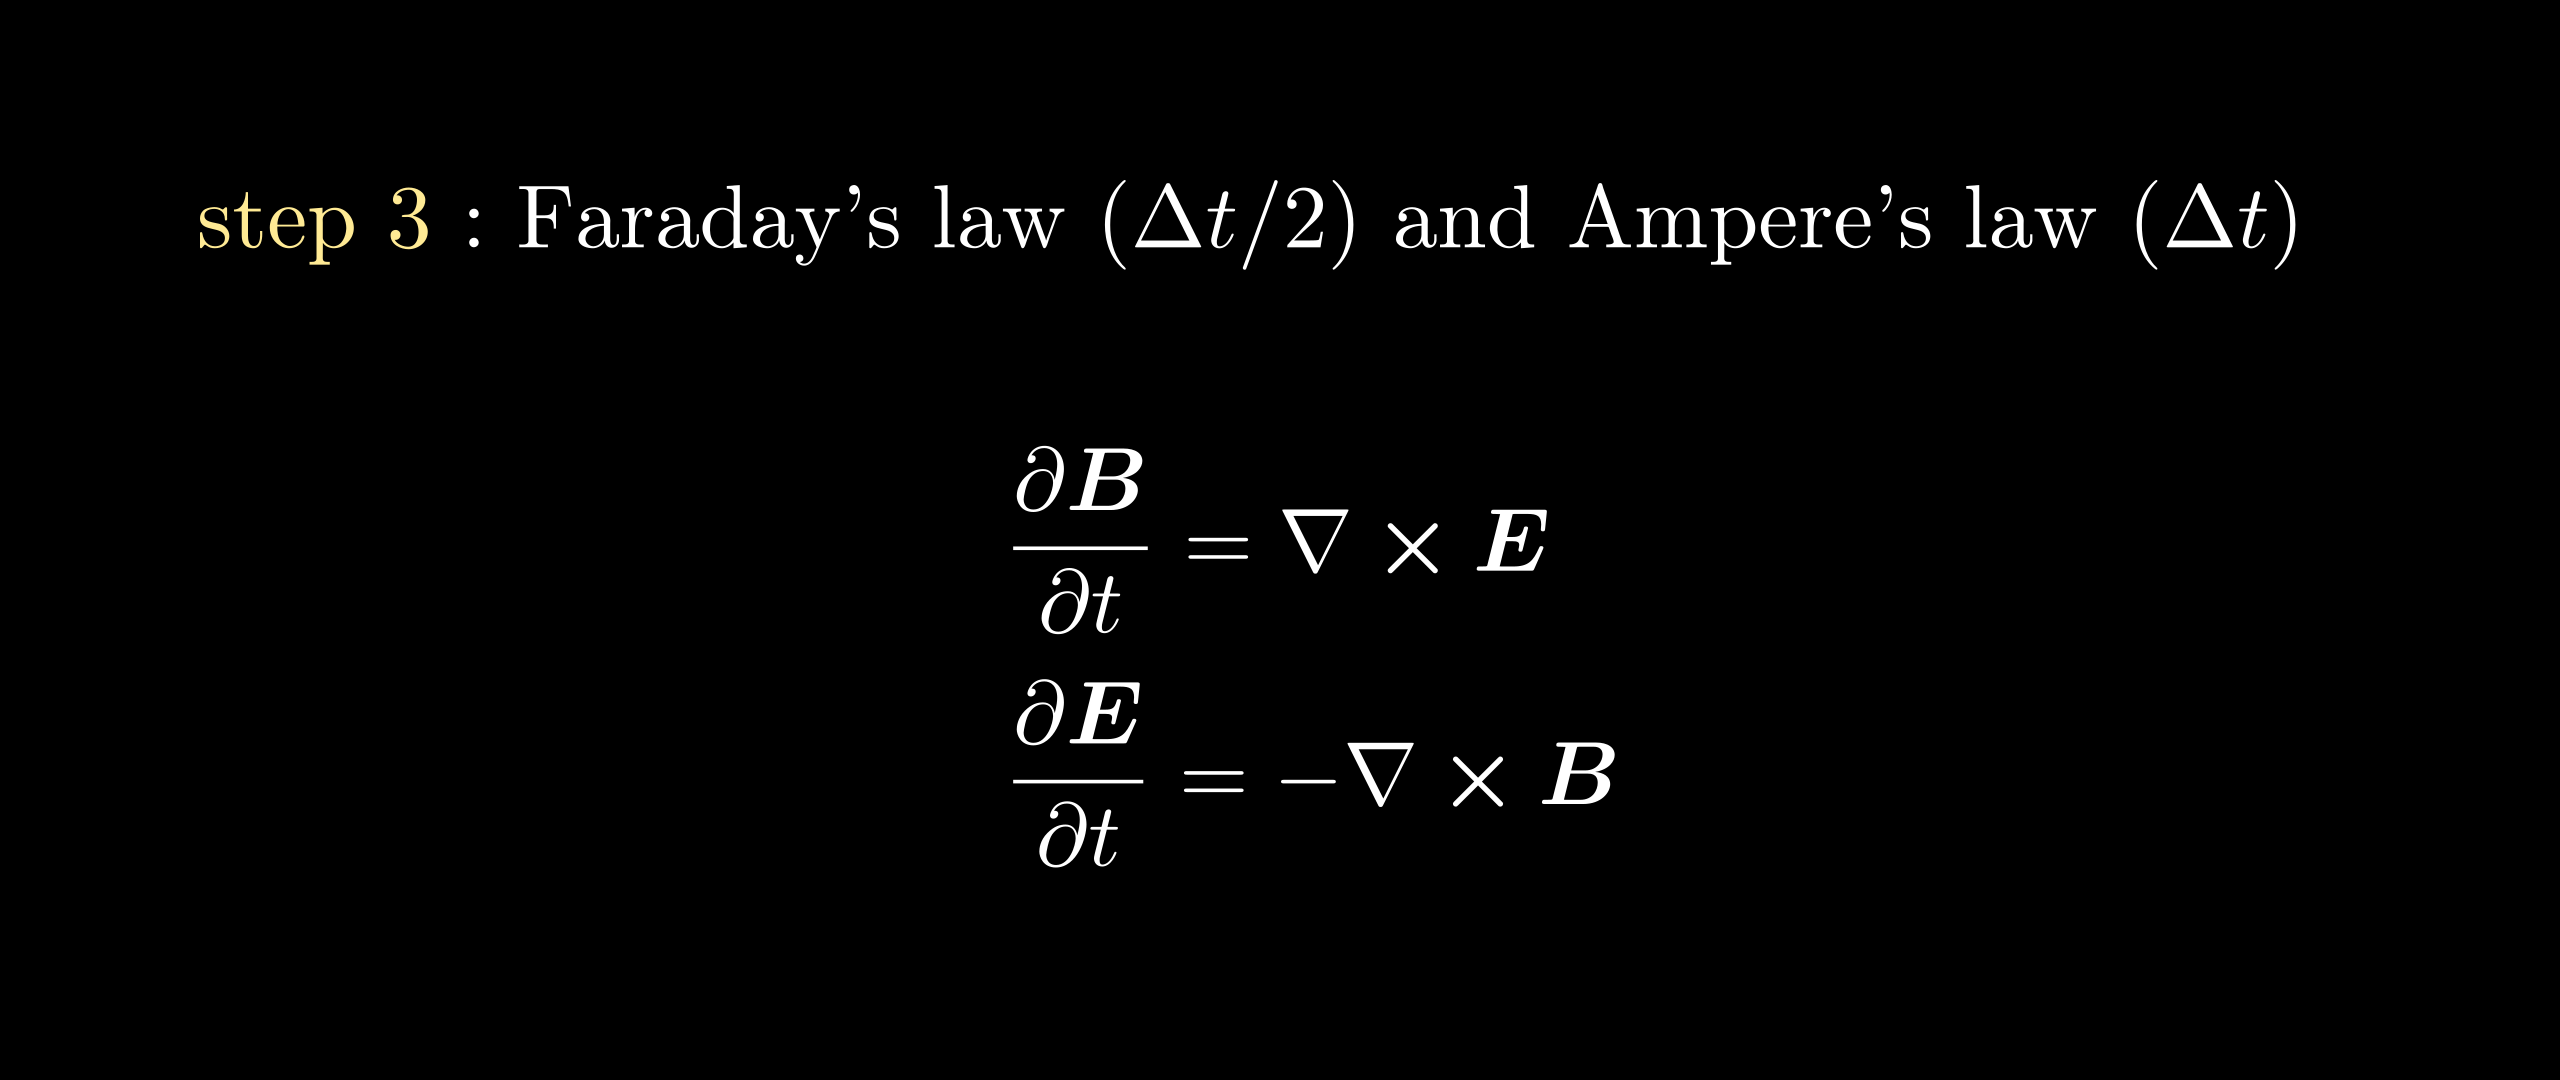
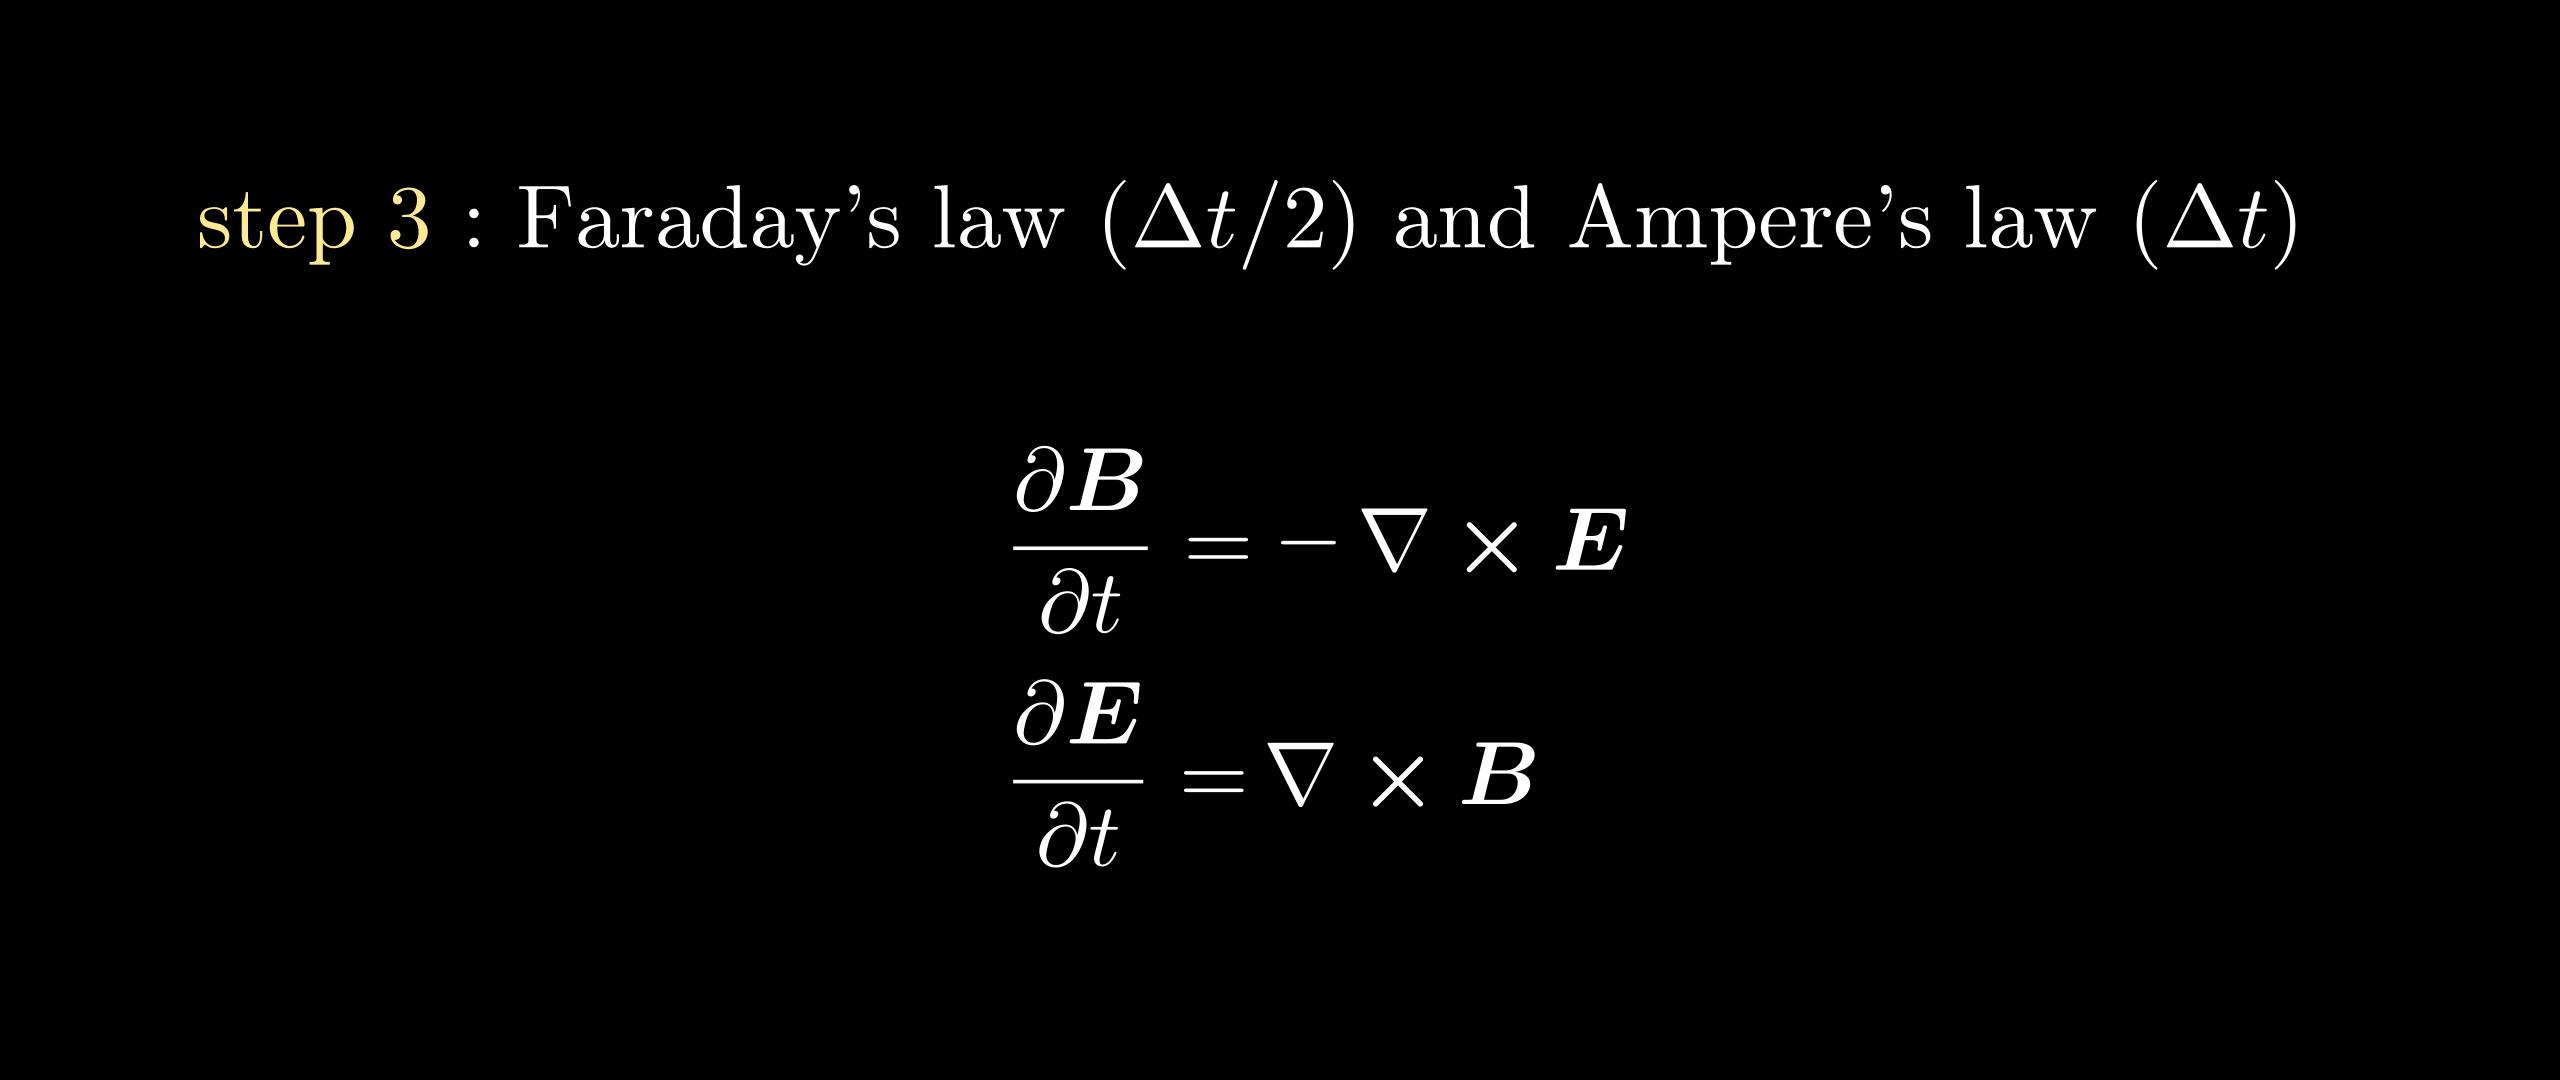
fixed maxwell signs

Changed region(s): [[0.5, 0.6722, 0.6562, 0.7639], [0.5, 0.4583, 0.625, 0.55]]

diff --git a/pages/tristanv2/pic/tristanv2-algorithms.md b/pages/tristanv2/pic/tristanv2-algorithms.md
@@ -27,15 +27,15 @@ Maxwell solver itself consists of three separate substeps. Faraday's law over ha
 
 <div>$$
 \begin{eqnarray}
-\frac{\boldsymbol{B}^{(n)} - \boldsymbol{B}^{(n-1/2)}}{\Delta t/2} &=& \tilde{c}\nabla\times \boldsymbol{E}^{(n)},~\text{and}\\
-\frac{\boldsymbol{B}^{(n+1/2)} - \boldsymbol{B}^{(n)}}{\Delta t/2} &=& \tilde{c}\nabla\times \boldsymbol{E}^{(n)}.
+\frac{\boldsymbol{B}^{(n)} - \boldsymbol{B}^{(n-1/2)}}{\Delta t/2} &=& -\tilde{c}\nabla\times \boldsymbol{E}^{(n)},~\text{and}\\
+\frac{\boldsymbol{B}^{(n+1/2)} - \boldsymbol{B}^{(n)}}{\Delta t/2} &=& -\tilde{c}\nabla\times \boldsymbol{E}^{(n)}.
 \end{eqnarray}
 $$</div>
 
 The Ampere's law over the full timestep $\Delta t$:
 
 <div>$$
-\frac{\boldsymbol{\tilde{E}}^{(n+1)} - \boldsymbol{E}^{(n)}}{\Delta t} = -\tilde{c}\nabla\times \boldsymbol{B}^{(n+1/2)}.
+\frac{\boldsymbol{\tilde{E}}^{(n+1)} - \boldsymbol{E}^{(n)}}{\Delta t} = \tilde{c}\nabla\times \boldsymbol{B}^{(n+1/2)}.
 $$</div>
 
 And the correction to the Ampere's law from the deposited currents:
